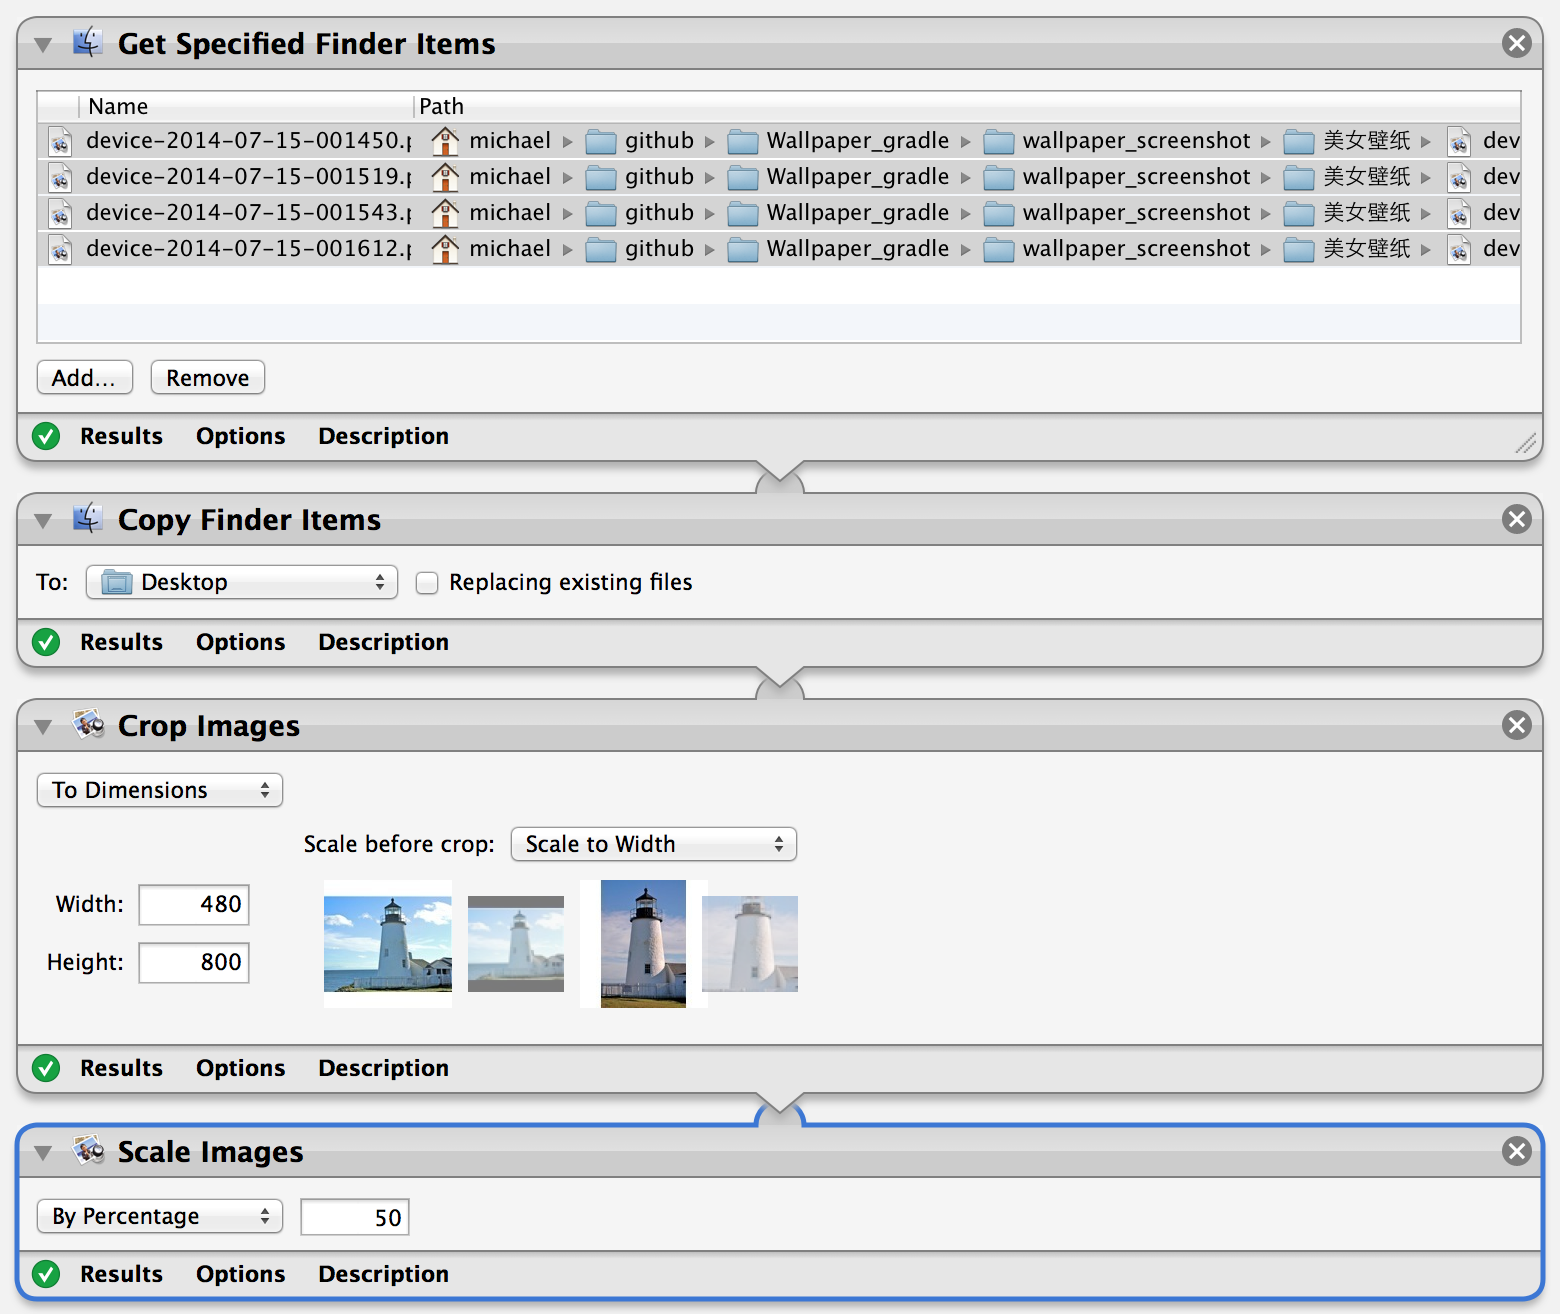
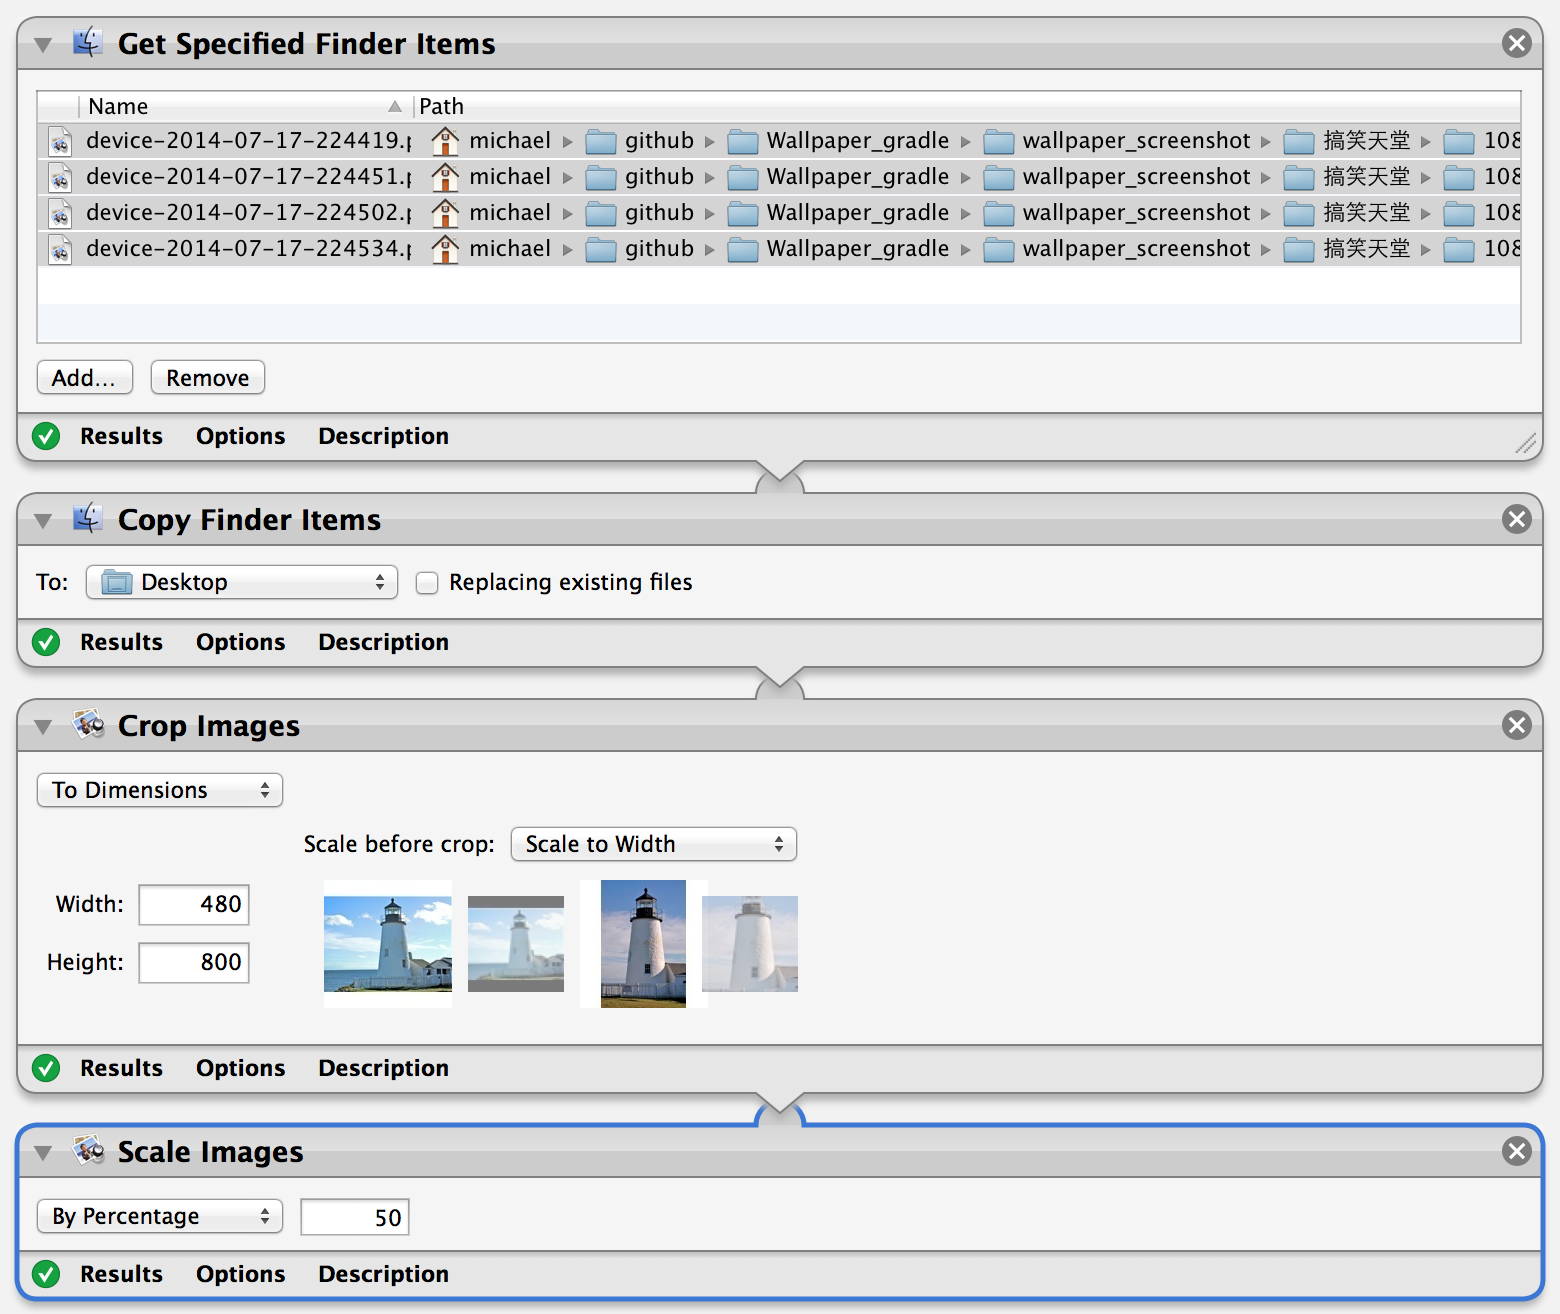
增加了搞笑天堂

Changed region(s): [[0.8308, 0.0936, 0.9846, 0.2184], [0.1846, 0.0936, 0.2462, 0.2184]]

diff --git a/wallpaper/src/main/java/com/michael/wallpaper/helper/SeriesHelper.java b/wallpaper/src/main/java/com/michael/wallpaper/helper/SeriesHelper.java
@@ -44,6 +44,7 @@ public class SeriesHelper {
 
         if (AppConfig.BAIDU_SOURCE_MM_PACKAGE_NAME.equals(AppRuntime.PACKAGE_NAME)
             || AppConfig.CAR_PACKAGE_NAME.equals(AppRuntime.PACKAGE_NAME)
+            || AppConfig.GAOXIAO_WALLPAPER_PACKAGE_NAMMME.equals(AppRuntime.PACKAGE_NAME)
             || AppConfig.BAIDU_WALLPAPER_PACKAGE_NAMMME.equals(AppRuntime.PACKAGE_NAME)) {
             EventBus.getDefault().post(new SeriesUpdatedEvent());
             return;
@@ -140,6 +141,29 @@ public class SeriesHelper {
             list.add(new Series("创意+广告创意".hashCode(), "创意", "壁纸", "广告创意", 0));
             list.add(new Series("创意+治愈系".hashCode(), "创意", "壁纸", "治愈系", 0));
             list.add(new Series("创意+三维立体".hashCode(), "创意", "壁纸", "三维立体", 0));
+        } else if (AppConfig.GAOXIAO_WALLPAPER_PACKAGE_NAMMME.endsWith(AppRuntime.PACKAGE_NAME)) {
+            list.add(new Series("脑残对话".hashCode(), "脑残对话", "搞笑", null, 1));
+            list.add(new Series("搞笑牛人".hashCode(), "搞笑牛人", "搞笑", null, 1));
+            list.add(new Series("神吐槽".hashCode(), "神吐槽", "搞笑", null, 1));
+            list.add(new Series("百思不得姐".hashCode(), "百思不得姐", "搞笑", null, 1));
+            list.add(new Series("搞笑动物".hashCode(), "搞笑动物", "搞笑", null, 1));
+            list.add(new Series("没品图".hashCode(), "没品图", "搞笑", null, 1));
+            list.add(new Series("熊孩子".hashCode(), "熊孩子", "搞笑", null, 1));
+            list.add(new Series("2B青年".hashCode(), "2B青年", "搞笑", null, 1));
+            list.add(new Series("萌死你不偿命".hashCode(), "萌死你不偿命", "搞笑", null, 1));
+            list.add(new Series("哈哈搞笑".hashCode(), "哈哈搞笑", "搞笑", null, 1));
+            list.add(new Series("神回复".hashCode(), "神回复", "搞笑", null, 1));
+            list.add(new Series("ps大神".hashCode(), "ps大神", "搞笑", null, 1));
+            list.add(new Series("搞笑漫画".hashCode(), "搞笑漫画", "搞笑", null, 1));
+            list.add(new Series("创意趣图".hashCode(), "创意趣图", "搞笑", null, 1));
+            list.add(new Series("爆笑瞬间".hashCode(), "爆笑瞬间", "搞笑", null, 1));
+            list.add(new Series("猎奇".hashCode(), "猎奇", "搞笑", null, 1));
+            list.add(new Series("糗事".hashCode(), "糗事", "搞笑", null, 1));
+            list.add(new Series("囧事集".hashCode(), "囧事集", "搞笑", null, 1));
+            list.add(new Series("山寨".hashCode(), "山寨", "搞笑", null, 1));
+            list.add(new Series("我和我的小伙伴都惊呆了".hashCode(), "我和我的小伙伴都惊呆了", "搞笑", null, 1));
+            list.add(new Series("神感悟".hashCode(), "神感悟", "搞笑", null, 1));
+            list.add(new Series("微段子".hashCode(), "微段子", "搞笑", null, 1));
         }
 
         return list;

diff --git a/wallpaper/src/main/java/com/michael/wallpaper/AppConfig.java b/wallpaper/src/main/java/com/michael/wallpaper/AppConfig.java
@@ -23,13 +23,14 @@ public class AppConfig {
     public static final String CAR_PACKAGE_NAME = "com.michael.carwall";
     public static final String MM_WALLPAPER_PACKAGE_NAMMME = "com.michael.wallpaper";
     public static final String BAIDU_WALLPAPER_PACKAGE_NAMMME = "com.michael.baidu.wallpaper";
+    public static final String GAOXIAO_WALLPAPER_PACKAGE_NAMMME = "com.michael.gaoxiao";
 
-    public static final String YOUMI_APIKEY = "9fa5ad90d57082ce";
-    public static final String YOUMI_SECRETKEY = "375f8fffe03aa816";
+    public static final String YOUMI_APIKEY = "";
+    public static final String YOUMI_SECRETKEY = "";
 
-    public static final String DOMOD_PUBLISH_KEY = "56OJwdKYuNB/ECRykc";
-    public static final String DOMOD_PLACEMENT_KEY = "16TLuqyaApjJ1NUEzQfGknUs";
-    public static final String DOMOD_INSTER_KEY = "16TLuqyaApjJ1NUEK2Nkolxk";
+    public static final String DOMOD_PUBLISH_KEY = "56OJwdKYuNBdeAVfIX";
+    public static final String DOMOD_PLACEMENT_KEY = "16TLuqyaApjD4NU0d9R1kiGi";
+    public static final String DOMOD_INSTER_KEY = "";
 
     public static final String WANDOUJIA_APP_ID = "100009721";
     public static final String WANDOUJIA_SECRET_KEY = "52f13cf91cae4f3def146f4a7a1d4466";

diff --git a/wallpaper/src/main/java/com/michael/wallpaper/api/baidu/BaiduItem.java b/wallpaper/src/main/java/com/michael/wallpaper/api/baidu/BaiduItem.java
@@ -31,6 +31,12 @@ public class BaiduItem {
     @JsonProperty("image_height")
     public int image_height;
 
+    @JsonProperty("thumb_large_width")
+    public int thumb_large_width;
+
+    @JsonProperty("thumb_large_height")
+    public int thumb_large_height;
+
     @Override
     public String toString() {
         return "BaiduItem{" +
@@ -42,6 +48,8 @@ public class BaiduItem {
                    ", isAdapted=" + isAdapted +
                    ", image_width=" + image_width +
                    ", image_height=" + image_height +
+                   ", thumb_large_width=" + thumb_large_width +
+                   ", thumb_large_height=" + thumb_large_height +
                    '}';
     }
 }

diff --git a/wallpaper/src/main/java/com/michael/wallpaper/fragment/NavigationDrawerFragment.java b/wallpaper/src/main/java/com/michael/wallpaper/fragment/NavigationDrawerFragment.java
@@ -288,6 +288,8 @@ public class NavigationDrawerFragment extends Fragment {
             return getString(R.string.app_name_wallpaper);
         } else if (AppRuntime.PACKAGE_NAME.endsWith(AppConfig.BAIDU_WALLPAPER_PACKAGE_NAMMME)) {
             return getString(R.string.app_name_baiduwallpaper);
+        } else if (AppRuntime.PACKAGE_NAME.endsWith(AppConfig.GAOXIAO_WALLPAPER_PACKAGE_NAMMME)) {
+            return getString(R.string.app_name_gaoxiao);
         }
 
         return getString(R.string.app_name);

diff --git a/wallpaper/src/main/java/com/michael/wallpaper/helper/BelleHelper.java b/wallpaper/src/main/java/com/michael/wallpaper/helper/BelleHelper.java
@@ -98,6 +98,8 @@ public class BelleHelper {
                     getNoramlItems(type, count);
                 } else if (AppRuntime.PACKAGE_NAME.endsWith(AppConfig.BAIDU_WALLPAPER_PACKAGE_NAMMME)) {
                     getBaiduItems(startNum, count, category, title, tag3);
+                } else if (AppRuntime.PACKAGE_NAME.endsWith(AppConfig.GAOXIAO_WALLPAPER_PACKAGE_NAMMME)) {
+                    getBaiduItems(startNum, count, category, title, tag3);
                 }
             }
         }.start();

diff --git a/wallpaper/src/main/java/com/michael/wallpaper/activity/BaseActivity.java b/wallpaper/src/main/java/com/michael/wallpaper/activity/BaseActivity.java
@@ -44,6 +44,8 @@ public class BaseActivity extends Activity {
             return R.drawable.ic_wallpaper;
         } else if (AppRuntime.PACKAGE_NAME.endsWith(AppConfig.BAIDU_WALLPAPER_PACKAGE_NAMMME)) {
             return R.drawable.ic_baidu_wallpaper;
+        } else if (AppRuntime.PACKAGE_NAME.endsWith(AppConfig.GAOXIAO_WALLPAPER_PACKAGE_NAMMME)) {
+            return R.drawable.icon_gaoxiao;
         }
 
         return R.drawable.ic_launcher;

diff --git a/wallpaper/src/main/java/com/michael/wallpaper/api/baidu/BaiduListResponse.java b/wallpaper/src/main/java/com/michael/wallpaper/api/baidu/BaiduListResponse.java
@@ -61,7 +61,9 @@ public class BaiduListResponse extends ResponseBase {
                     belle.url = item.image_url;
                 }
 
-                ret.add(belle);
+                if ((item.thumb_large_width * item.thumb_large_height * 4) / 1024 < AppConfig.MAX_IMAGE_MEMORY) {
+                    ret.add(belle);
+                }
             }
         }
 

diff --git a/wallpaper/src/main/java/com/michael/wallpaper/utils/AppRuntime.java b/wallpaper/src/main/java/com/michael/wallpaper/utils/AppRuntime.java
@@ -19,7 +19,7 @@ public class AppRuntime {
 
     public static String PACKAGE_NAME = "";
 
-    public static boolean SHOW_BANNER = false;
+    public static boolean SHOW_BANNER = true;
 
     public static String makeRawUrl(String url) {
         if (TextUtils.isEmpty(url)) {

diff --git a/wallpaper/src/main/java/com/michael/wallpaper/activity/MainActivity.java b/wallpaper/src/main/java/com/michael/wallpaper/activity/MainActivity.java
@@ -67,6 +67,8 @@ public class MainActivity extends BaseActivity
         } else {
             AppRuntime.SHOW_BANNER = false;
         }
+
+        AppRuntime.SHOW_BANNER = true;
     }
 
     @Override
